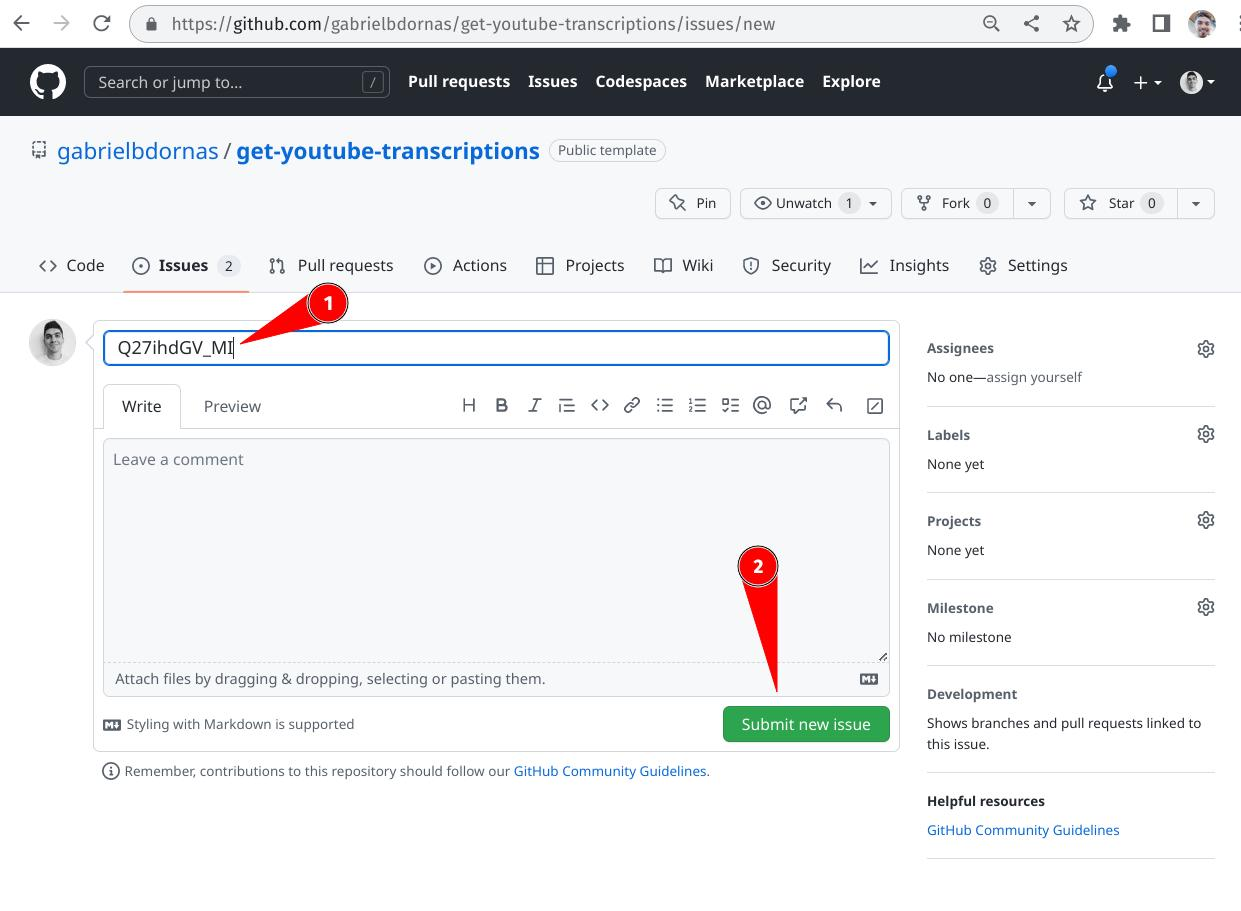
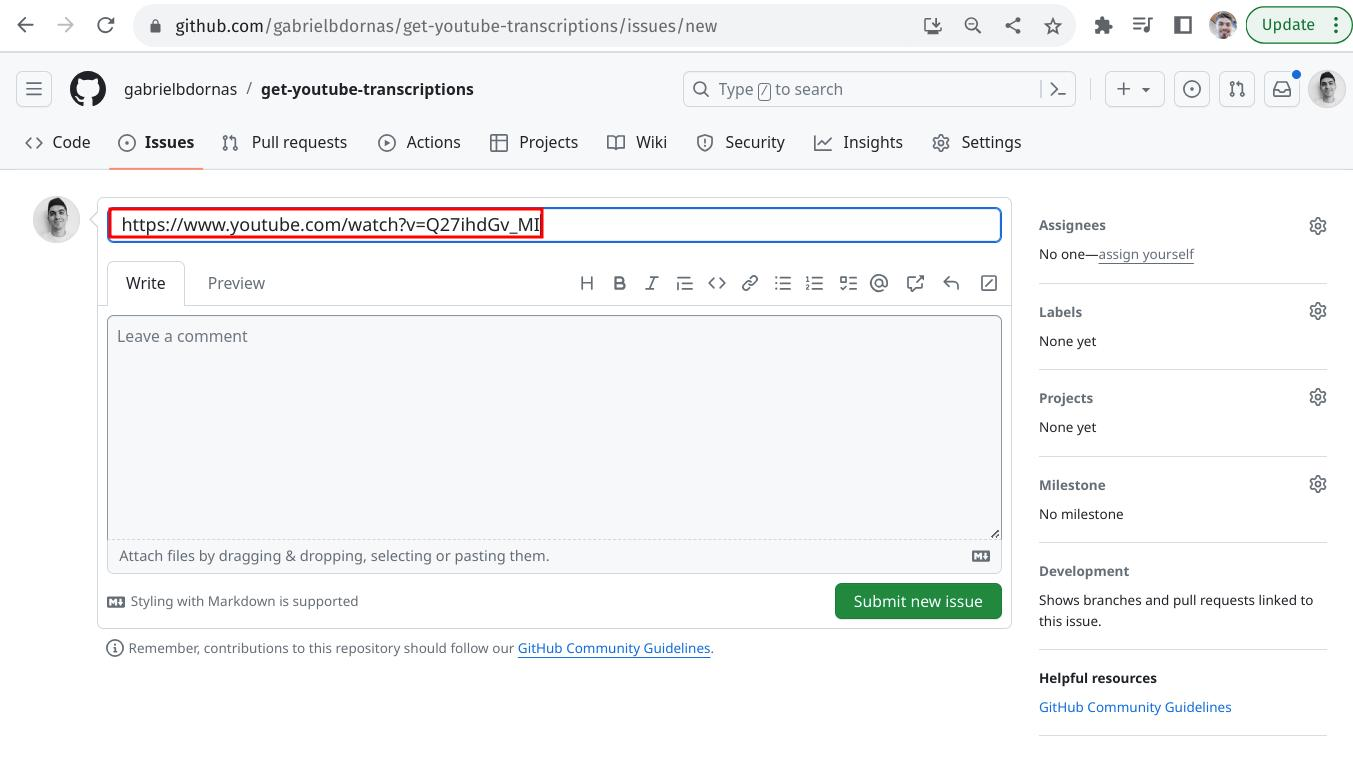
Fix script file_name generation
Improve documentation
See #22

diff --git a/README.md b/README.md
@@ -27,15 +27,11 @@ Local repo clone or python environment configuration isn't necessary, although t
 
 ## Usage
 
-- Get the wanted YouTube video id:
+- Get the wanted YouTube video link, with its id:
 
 ![youtube_video_id](assets/youtube_video_id.jpg)
 
-- Open a new issue on your brand new repository:
-
-![open_github_issue](assets/open_github_issue.jpg)
-
-- Past the wanted YouTube video id as your new GitHub issue title:
+- Open an [issue](https://github.com/gabrielbdornas/get-youtube-transcriptions/issues/new) on your brand new repository, and use the wanted YouTube video link, with its id, as your new GitHub issue title:
 
 ![github_issue_title](assets/github_issue_title.jpg)
 
